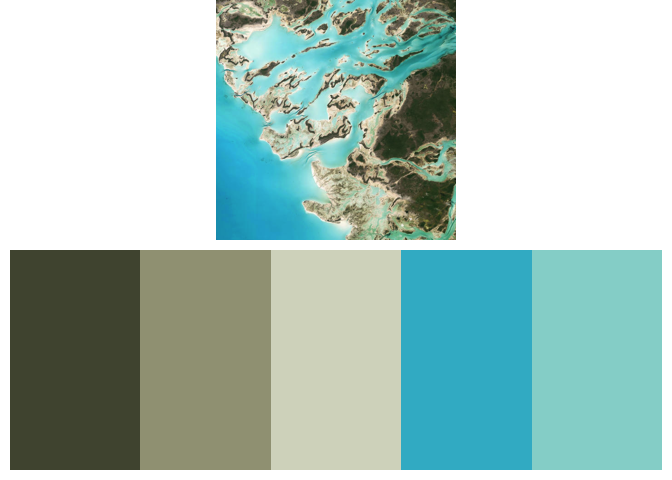
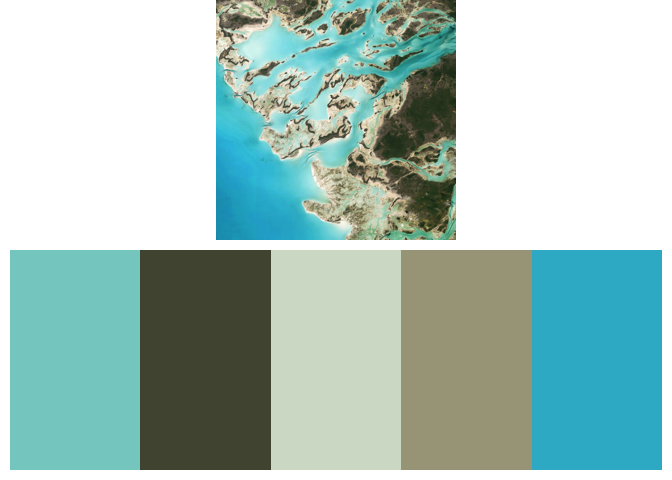
possibly working

diff --git a/README.md b/README.md
@@ -52,10 +52,10 @@ get_earthtones(latitude = 24.2, longitude=-77.88, zoom=11, number_of_colors=5)
 Just pick your favorite place in the world, and find out the major
 colors
 
-Here is San Francisco:
+Here is Sydney:
 
 ``` r
-get_earthtones(latitude = 36.5, longitude=-122.56, zoom=13, number_of_colors=6)
+get_earthtones(latitude = -25.33, longitude=131.0396, zoom=10, number_of_colors=6)
 ```
 
 ![](readme_files/figure-markdown_github/sf-1.png)<!-- -->
